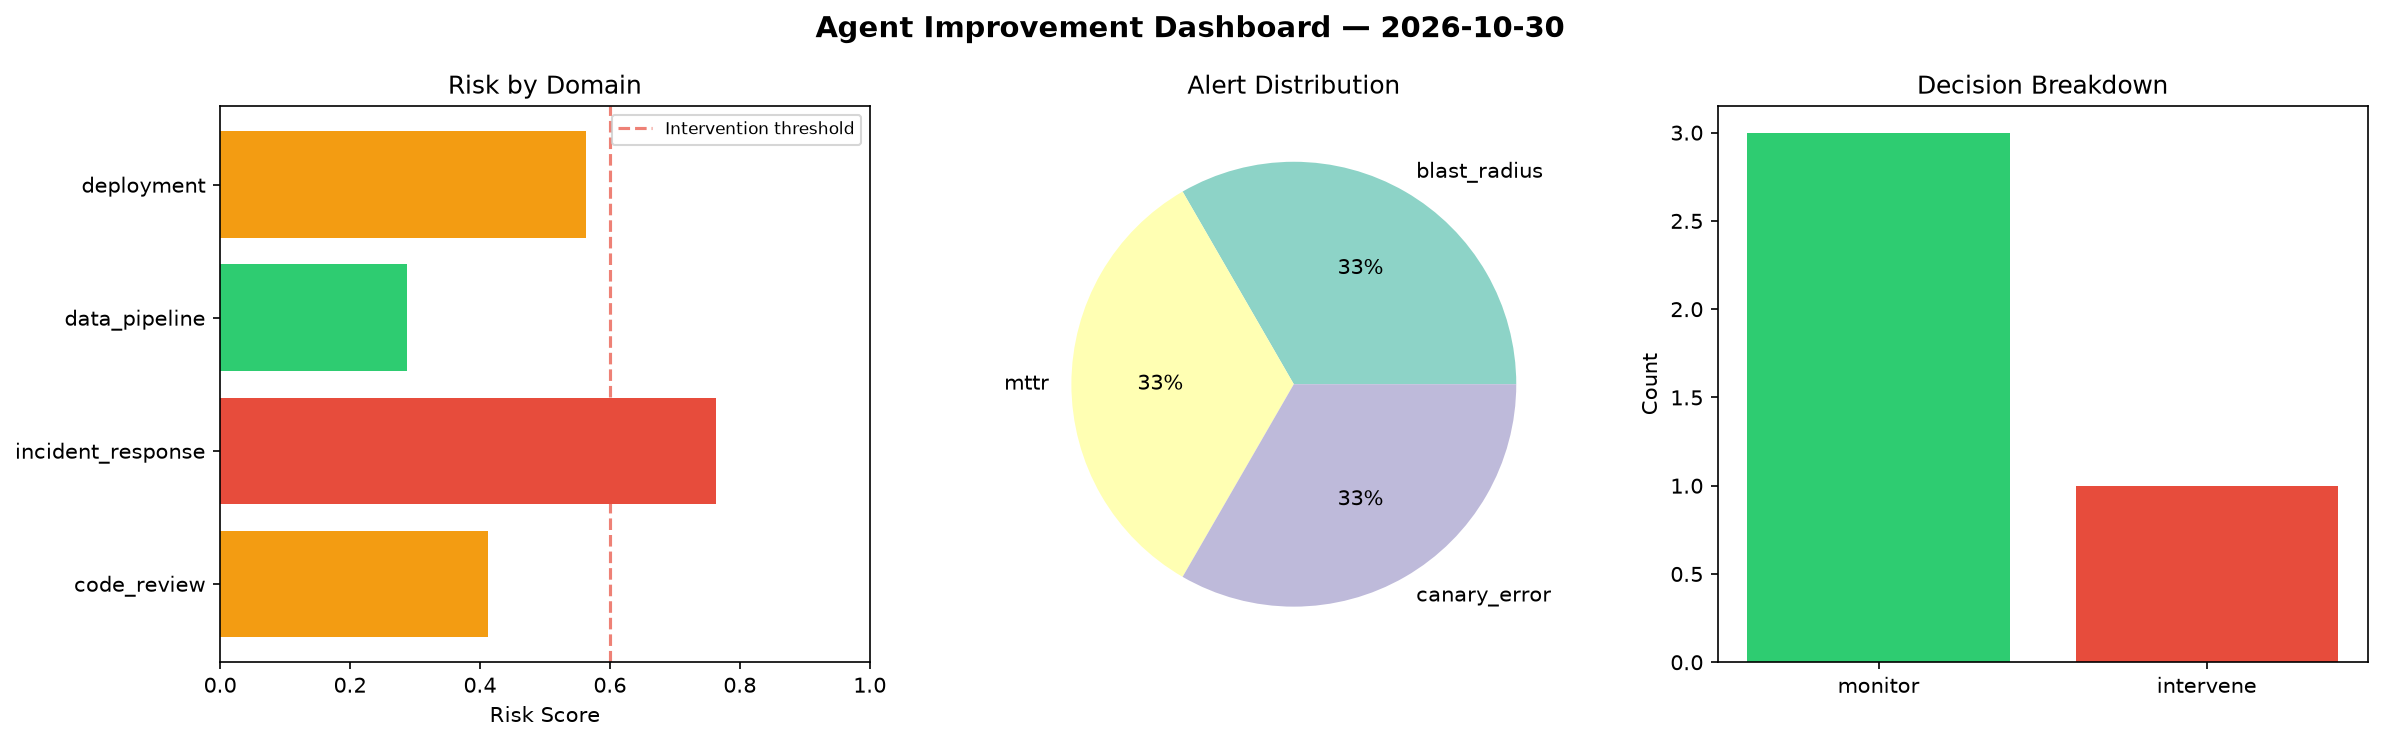
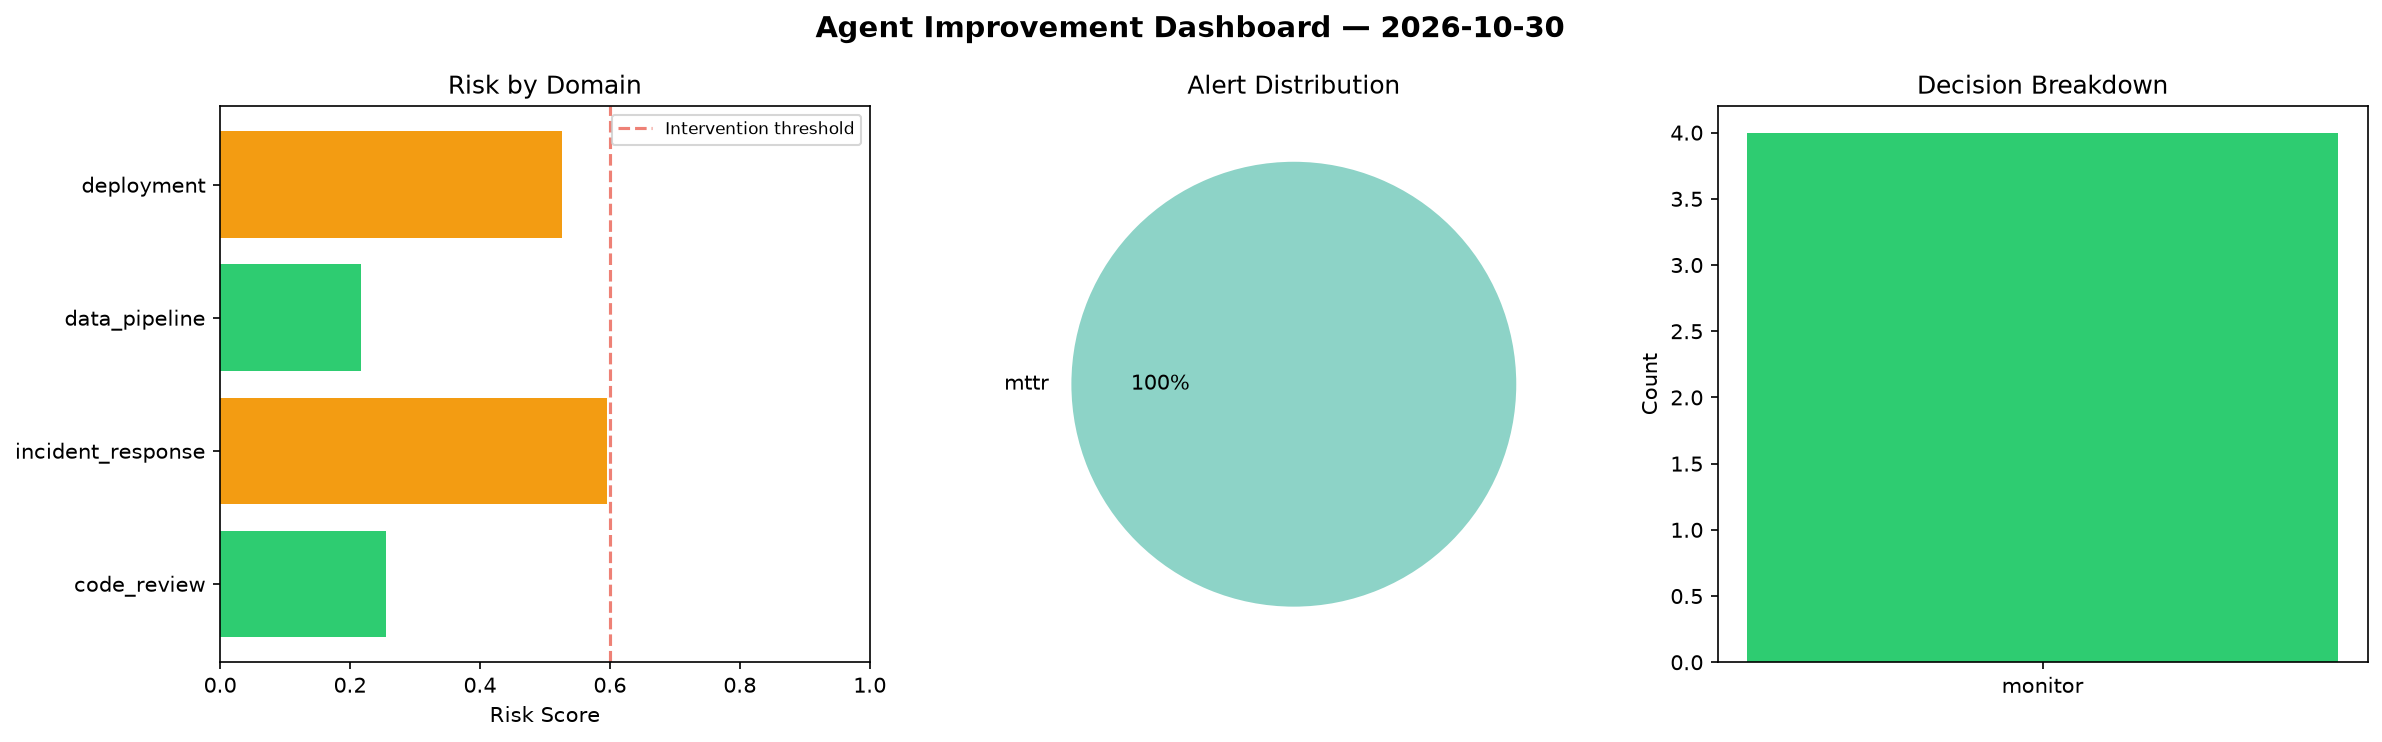
agent-improvement: daily cycle 2026-10-30T19:23

diff --git a/logs/2026-10-30.md b/logs/2026-10-30.md
@@ -1,6 +1,6 @@
 # Agent Improvement Report — 2026-10-30
 
-**Cycle ID:** `f4948cd9` | **Avg Risk:** 0.5068 | **Interventions:** 1/4
+**Cycle ID:** `b170c40f` | **Avg Risk:** 0.3987 | **Interventions:** 0/4
 
 ![Dashboard](2026-10-30_dashboard.png)
 
@@ -10,18 +10,18 @@
 
 | Domain | Risk Score | Decision | Alerts |
 |--------|-----------|----------|--------|
-| code_review | 0.4117 | monitor | none |
-| incident_response | 0.7638 | intervene | blast_radius, mttr |
-| data_pipeline | 0.2879 | monitor | none |
-| deployment | 0.5638 | monitor | canary_error |
+| code_review | 0.2554 | monitor | none |
+| incident_response | 0.5957 | monitor | mttr |
+| data_pipeline | 0.2176 | monitor | none |
+| deployment | 0.5262 | monitor | none |
 
 ## Delta vs Yesterday
 
 | Domain | Today | Yesterday | Change |
 |--------|-------|-----------|--------|
-| code_review | 0.4117 | 0.5694 | 📉 -27.7% |
-| incident_response | 0.7638 | 0.5811 | 📈 31.4% |
-| data_pipeline | 0.2879 | 0.3658 | 📉 -21.3% |
-| deployment | 0.5638 | 0.3705 | 📈 52.2% |
+| code_review | 0.2554 | 0.5694 | 📉 -55.1% |
+| incident_response | 0.5957 | 0.5811 | 📈 2.5% |
+| data_pipeline | 0.2176 | 0.3658 | 📉 -40.5% |
+| deployment | 0.5262 | 0.3705 | 📈 42.0% |
 
 **Refinement:** `{'adjustment': 'tighten_thresholds', 'trend': 'degrading', 'window': 4}`
